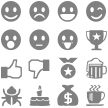
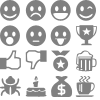
UI-3163 [Chat] Chat Emoticons

diff --git a/application/src/main/java/org/benjp/portlet/chat/assets/emoticons.less b/application/src/main/java/org/benjp/portlet/chat/assets/emoticons.less
@@ -1,8 +1,7 @@
 .msg-emoticons-panel {
-  background: @colorBgEmoticonPlain;
-  background-color: @colorBgEmoticon;
-  min-width: 80px;
-  height: 80px;
+  background: @white;
+  width: 100px;
+  height: 100px;
   padding: 2px 0px 4px 4px;
   -moz-border-radius: 3px;
   border-radius: 3px;
@@ -11,12 +10,13 @@
   left: 0px;
   bottom: 61px;
   z-index: 5;
+  border: 1px solid #cccccc;
 }
 
 .emoticon {
   display: inline-block;
-  min-width: 16px;
-  height: 16px;
+  width: 21px;
+  height: 21px;
   padding: 0;
   margin: 0;
   font-size: 1px;
@@ -24,12 +24,12 @@
 }
 
 .background-emoticon(@left, @top) {
-  background: url('@{imgPath}emoticons.png') no-repeat @left @top;
-  background-size: 128px 64px;
+  background: url('@{imgPath}uiIconChatEmoticons24x24.png') no-repeat @left @top;
+  background-size: 100px 100px;
 }
 
 .msg-emoticons {
-  .background-emoticon(-112px, -32px);
+  .background-emoticon(0, 0);
   z-index: 10;
 }
 .msg-button {
@@ -37,101 +37,53 @@
 }
 
 
-.emoticon-smile {
-  .background-emoticon(-112px, -32px);
+.emoticon-smile-white, .emoticon-smile {
+  .background-emoticon(0px, 0px);
 }
-.emoticon-big-smile {
-  .background-emoticon(-48px, 0);
+.emoticon-big-smile-white, .emoticon-big-smile {
+  .background-emoticon(-51px, 0);
 }
-.emoticon-eye-blink {
-  .background-emoticon(-112px, -16px);
+.emoticon-eye-blink-white, .emoticon-eye-blink {
+  .background-emoticon(-76px, 0px);
 }
-.emoticon-no-voice {
-  .background-emoticon(-48px, -32px);
+.emoticon-no-voice-white, .emoticon-no-voice {
+  .background-emoticon(-26px, -25px);
 }
-.emoticon-sad {
-  .background-emoticon(-80px, -32px);
+.emoticon-sad-white, .emoticon-sad {
+  .background-emoticon(-26px, 0px);
 }
-.emoticon-surprise {
-  .background-emoticon(-48px, -48px);
+.emoticon-surprise-white, .emoticon-surprise {
+  .background-emoticon(0px, -25px);
 }
-.emoticon-smile-white {
-  .background-emoticon(-96px, -32px);
+.emoticon-beer-white, .emoticon-beer {
+  .background-emoticon(-75px, -50px);
 }
-.emoticon-big-smile-white {
-  .background-emoticon(-32px, 0);
+.emoticon-bow-white, .emoticon-bow {
+  .background-emoticon(-76px, -25px);
 }
-.emoticon-eye-blink-white {
-  .background-emoticon(-96px, -16px);
+.emoticon-bug-white, .emoticon-bug {
+  .background-emoticon(0px, -75px);
 }
-.emoticon-no-voice-white {
-  .background-emoticon(-32px, -32px);
+.emoticon-cake-white, .emoticon-cake {
+  .background-emoticon(-25px, -75px);
 }
-.emoticon-sad-white {
-  .background-emoticon(-64px, -32px);
+.emoticon-cash-white, .emoticon-cash {
+  .background-emoticon(-51px, -75px);
 }
-.emoticon-surprise-white {
-  .background-emoticon(-32px, -48px);
+.emoticon-coffee-white, .emoticon-coffee {
+  .background-emoticon(-75px, -75px);
 }
-.emoticon-beer {
-  .background-emoticon(-16px, 0);
+.emoticon-no-white, .emoticon-no {
+  .background-emoticon(-25px, -50px);
 }
-.emoticon-bow {
-  .background-emoticon(-80px, 0);
+.emoticon-star-white, .emoticon-star {
+  .background-emoticon(-50px, -50px);
 }
-.emoticon-bug {
-  .background-emoticon(-112px, 0);
+.emoticon-yes-white, .emoticon-yes {
+  .background-emoticon(0px, -50px);
 }
-.emoticon-cake {
-  .background-emoticon(-16px, -16px);
-}
-.emoticon-cash {
-  .background-emoticon(-48px, -16px);
-}
-.emoticon-coffee {
-  .background-emoticon(-80px, -16px);
-}
-.emoticon-no {
-  .background-emoticon(-16px, -32px);
-}
-.emoticon-star {
-  .background-emoticon(-16px, -48px);
-}
-.emoticon-yes {
-  .background-emoticon(-112px, -48px);
-}
-.emoticon-tongue {
-  .background-emoticon(-80px, -48px);
-}
-.emoticon-beer-white {
-  .background-emoticon(0, 0);
-}
-.emoticon-bow-white {
-  .background-emoticon(-64px, 0);
-}
-.emoticon-bug-white {
-  .background-emoticon(-96px, 0);
-}
-.emoticon-cake-white {
-  .background-emoticon(0, -16px);
-}
-.emoticon-cash-white {
-  .background-emoticon(-32px, -16px);
-}
-.emoticon-coffee-white {
-  .background-emoticon(-64px, -16px);
-}
-.emoticon-no-white {
-  .background-emoticon(0, -32px);
-}
-.emoticon-star-white {
-  .background-emoticon(0, -48px);
-}
-.emoticon-yes-white {
-  .background-emoticon(-96px, -48px);
-}
-.emoticon-tongue-white {
-  .background-emoticon(-64px, -48px);
+.emoticon-tongue-white, .emoticon-tongue {
+  .background-emoticon(-51px, -25px);
 }
 
 .emoticon-text, .invisible-text {

diff --git a/application/src/main/java/org/benjp/portlet/chat/assets/base.less b/application/src/main/java/org/benjp/portlet/chat/assets/base.less
@@ -615,8 +615,8 @@ tr.info td {
 }
 
 .msg-button {
-  min-width: 16px;
-  height: 16px;
+  min-width: 21px;
+  height: 21px;
   padding: 2px;
   opacity:0.4;
   filter:alpha(opacity=40);
